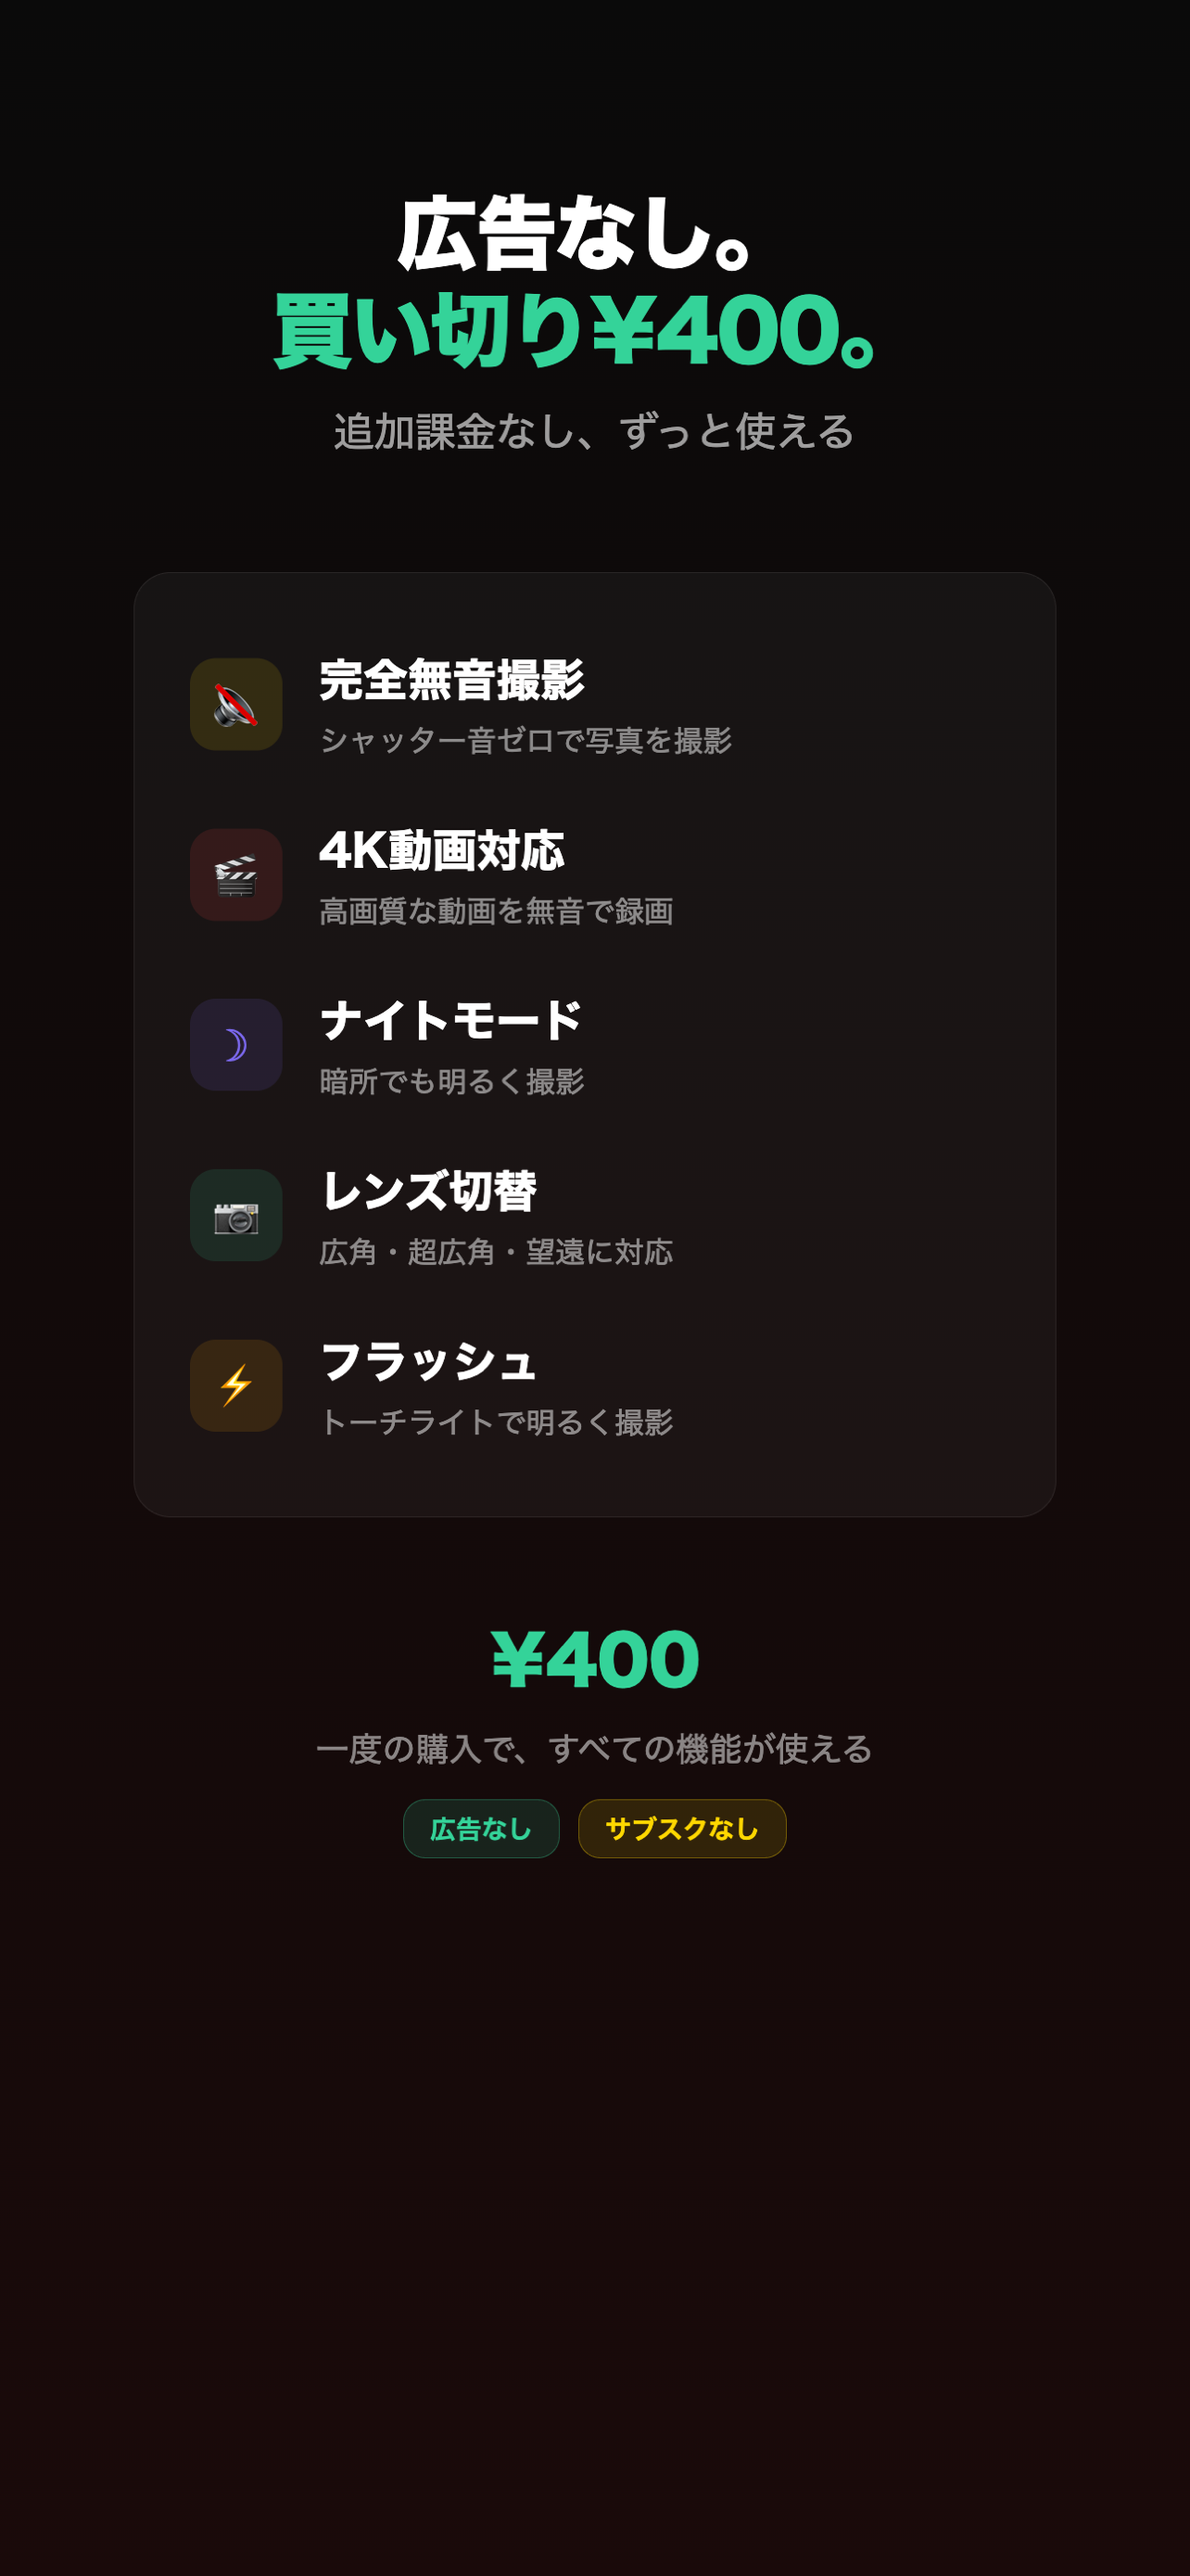
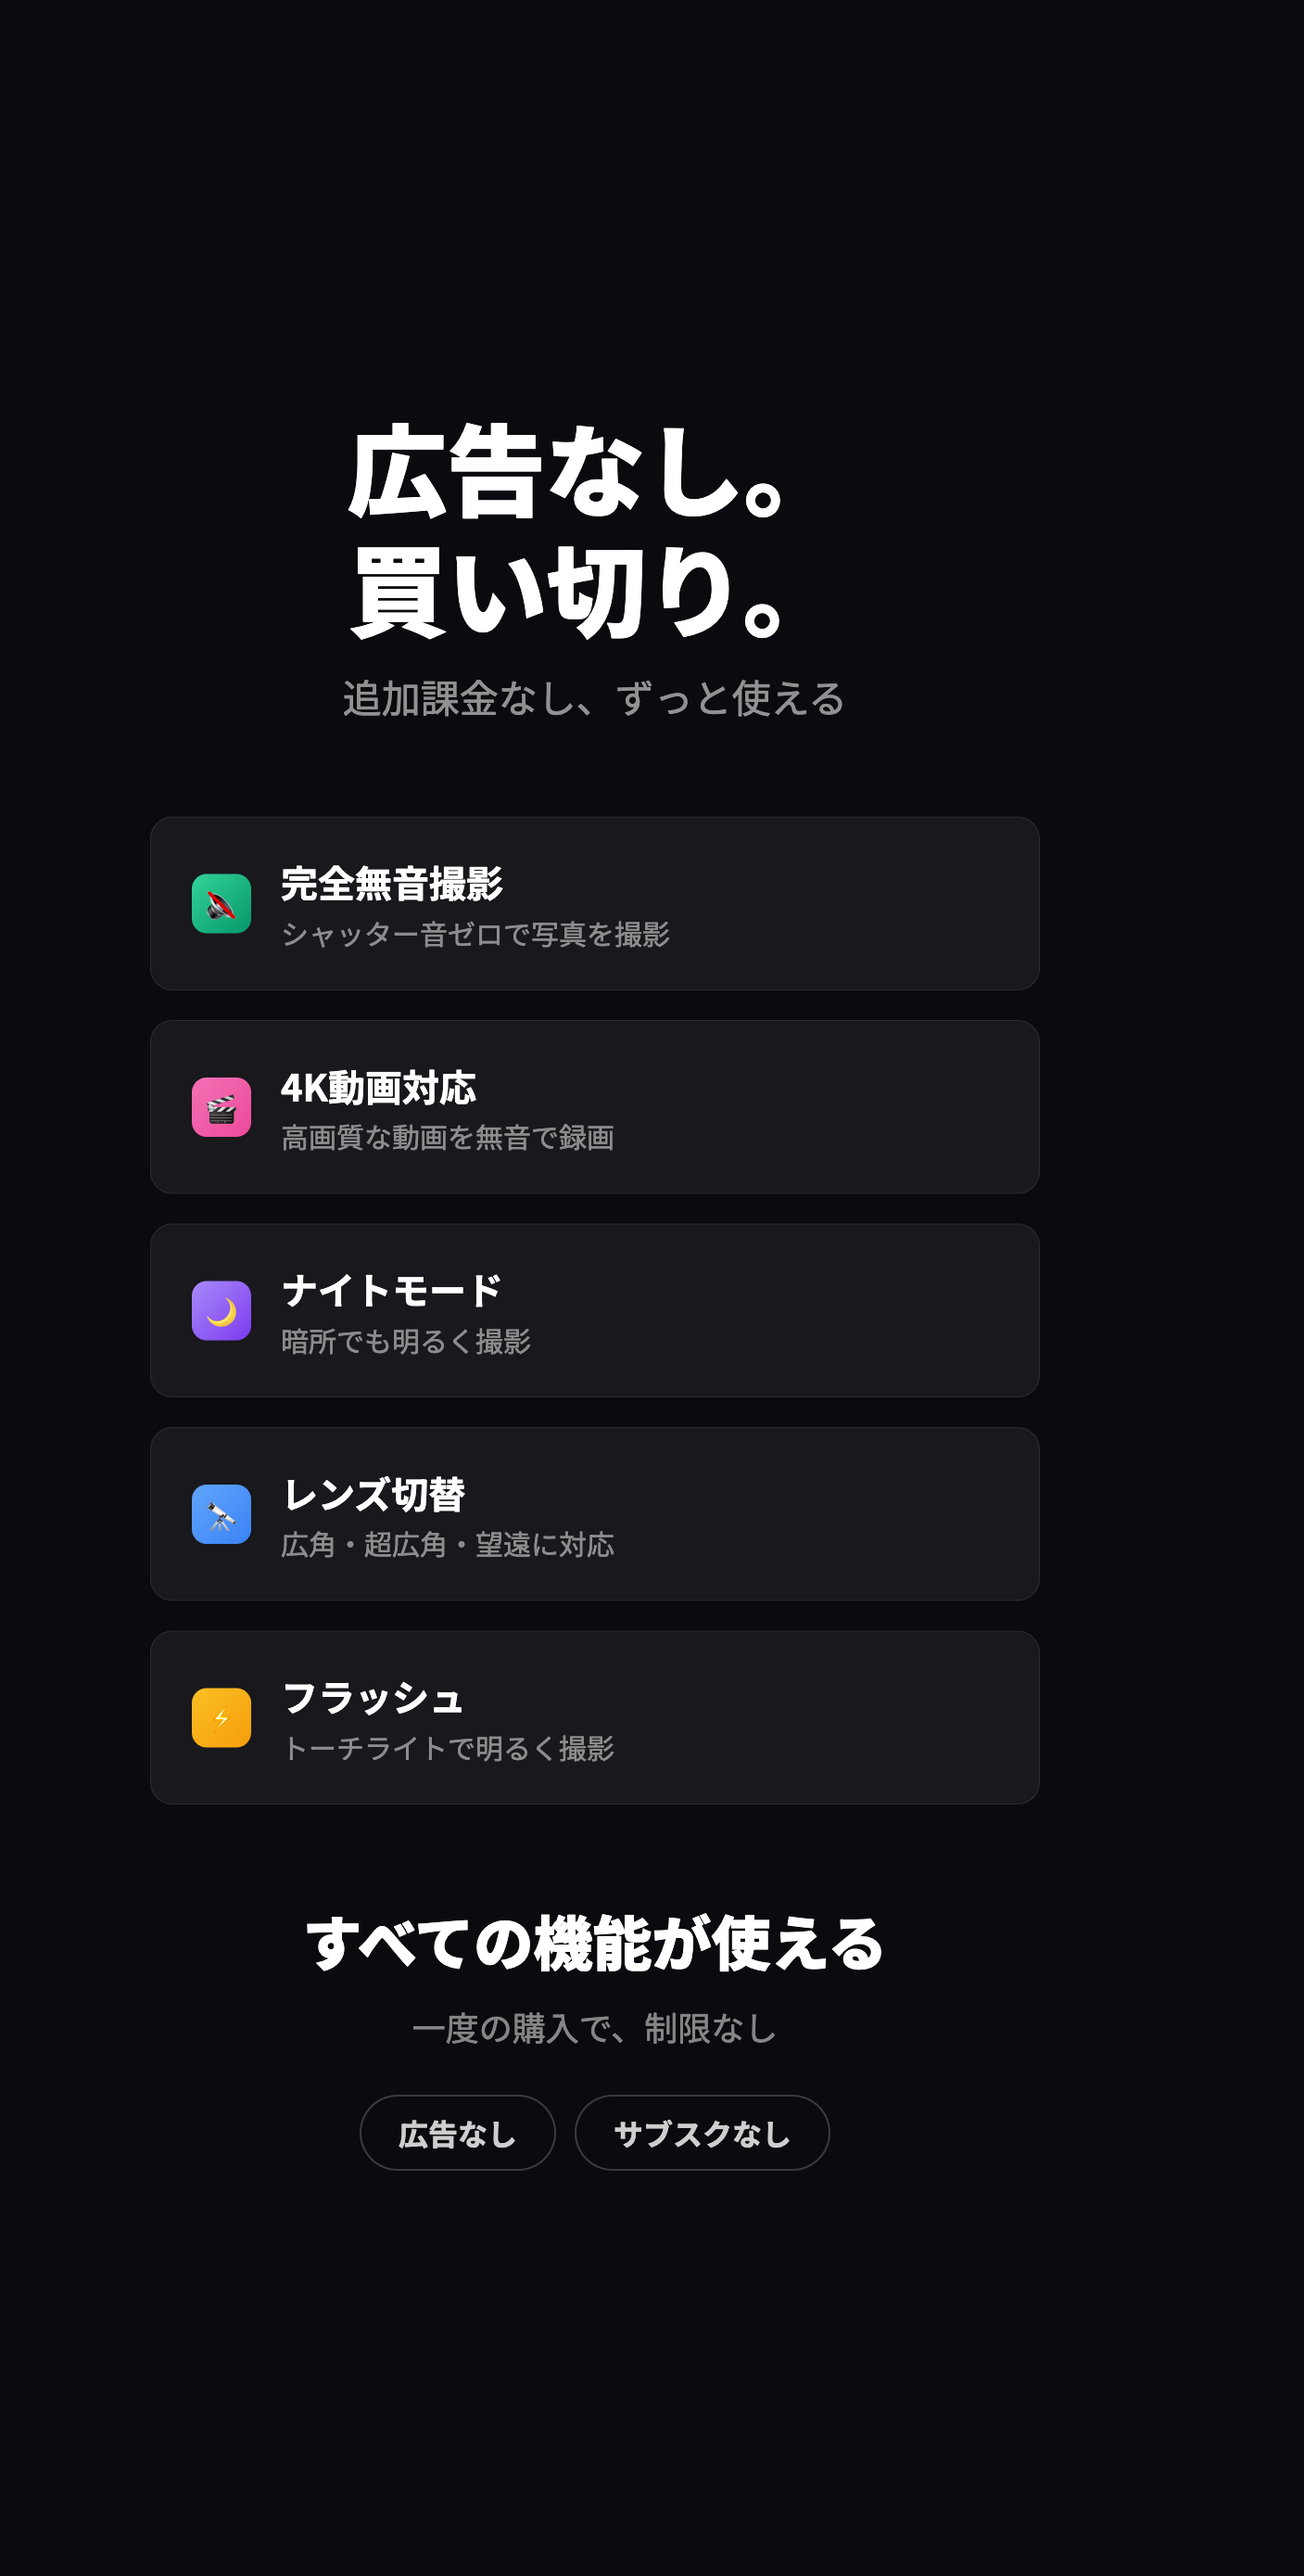
fix: App Store リジェクト対応 (2.5.14, 2.3.7, 1.5)
- 2.5.14: シャッターフラッシュを黒→白に変更（撮影インジケーター）
- 2.3.7: screenshot4 から価格表記を削除
- 1.5: サポートページにお問い合わせフォームへのリンクを追加

Changed region(s): [[0.1246, 0.0619, 0.7477, 0.6192], [0.1246, 0.5882, 0.6854, 0.8359]]

diff --git a/MannerCamera4K/Views/CameraView.swift b/MannerCamera4K/Views/CameraView.swift
@@ -6,8 +6,10 @@ struct CameraView: View {
     @State private var showMuteTip = false
     @State private var focusPoint: CGPoint?
     @State private var showFocusIndicator = false
+    @State private var focusID = UUID()
     // Important 8: ズームの指数的増加バグ修正用ベースズーム
     @State private var baseZoom: CGFloat = 1.0
+    @State private var showShutterFlash = false
     @Environment(\.scenePhase) private var scenePhase
 
     var body: some View {
@@ -31,20 +33,37 @@ struct CameraView: View {
         .onChange(of: scenePhase) { _, newPhase in
             switch newPhase {
             case .active:
-                camera.startSession()
-            case .inactive, .background:
+                // 権限の付与・取消の両方に対応（内部で startSession も行う）
+                camera.checkPermission()
+            case .background:
+                // バックグラウンド移行時のみ録画停止（.inactiveではコントロールセンター等で発火するため停止しない）
+                // stopRecording は内部で非同期に保存処理を行うため、stopSession は captureState が idle に戻ってから実行
                 if camera.captureState == .recording {
                     camera.stopRecording()
                 }
+                // 録画停止の非同期処理と競合しないよう sessionQueue 経由で順序を保証
                 camera.stopSession()
+            case .inactive:
+                break
             @unknown default:
                 break
             }
+        }
+        .onChange(of: camera.currentLens) {
+            baseZoom = 1.0
+        }
+        .onChange(of: camera.currentPosition) {
+            baseZoom = 1.0
         }
         .alert("ストレージ不足", isPresented: Bindable(camera).showStorageAlert) {
             Button("OK") {}
         } message: {
             Text("空き容量が不足しています。不要なファイルを削除してから再度お試しください。")
+        }
+        .alert("保存に失敗しました", isPresented: Bindable(camera).showSaveErrorAlert) {
+            Button("OK") {}
+        } message: {
+            Text("写真ライブラリへの保存に失敗しました。設定アプリから写真へのアクセスを許可してください。")
         }
     }
 
@@ -53,8 +72,11 @@ struct CameraView: View {
             GeometryReader { geo in
                 CameraPreviewView(session: camera.session)
                     .ignoresSafeArea()
+                    // 録画中・キャプチャ中はプレビューのタッチを完全に無効化
+                    // これにより録画停止ボタンへのタッチが確実に到達する
+                    .allowsHitTesting(camera.captureState == .idle)
                     .gesture(
-                        DragGesture(minimumDistance: 0)
+                        SpatialTapGesture()
                             .onEnded { value in
                                 camera.focus(at: value.location, in: geo.size)
                                 showFocusAt(value.location)
@@ -74,7 +96,9 @@ struct CameraView: View {
 
             if showFocusIndicator, let point = focusPoint {
                 FocusIndicator()
+                    .id(focusID)
                     .position(point)
+                    .allowsHitTesting(false)
             }
 
             if camera.captureState == .capturing && camera.isNightModeEnabled {
@@ -92,6 +116,15 @@ struct CameraView: View {
                     .background(.ultraThinMaterial, in: Capsule())
                     Spacer()
                 }
+                .allowsHitTesting(false)
+            }
+
+            if showShutterFlash {
+                Color.white
+                    .ignoresSafeArea()
+                    .allowsHitTesting(false)
+                    .transition(.opacity)
+                    .zIndex(10)
             }
 
             CameraControlsOverlay(
@@ -102,6 +135,7 @@ struct CameraView: View {
 
             if showMuteTip {
                 muteTipOverlay
+                    .allowsHitTesting(false)
             }
         }
     }
@@ -109,6 +143,14 @@ struct CameraView: View {
     private func handleCapture() {
         switch camera.currentMode {
         case .photo:
+            withAnimation(.easeOut(duration: 0.05)) {
+                showShutterFlash = true
+            }
+            DispatchQueue.main.asyncAfter(deadline: .now() + 0.15) {
+                withAnimation(.easeIn(duration: 0.12)) {
+                    showShutterFlash = false
+                }
+            }
             camera.capturePhoto(settings: settings)
 
         case .video:
@@ -129,9 +171,14 @@ struct CameraView: View {
 
     private func showFocusAt(_ point: CGPoint) {
         focusPoint = point
+        focusID = UUID()
         showFocusIndicator = true
+        let currentID = focusID
         DispatchQueue.main.asyncAfter(deadline: .now() + 1.5) {
-            withAnimation { showFocusIndicator = false }
+            // 新しいタップが発生していない場合のみ非表示にする
+            if focusID == currentID {
+                withAnimation { showFocusIndicator = false }
+            }
         }
     }
 

diff --git a/docs/support.html b/docs/support.html
@@ -113,13 +113,13 @@
   <h2>お問い合わせ</h2>
 
   <div class="contact-box">
-    <p>不具合の報告やご要望は、GitHub Issuesまたはメールにてお寄せください。</p>
-    <p><a href="https://github.com/kureho/MannerCamera4K/issues">GitHub Issues</a></p>
+    <p>不具合の報告やご要望は、お問い合わせフォームからお送りください。</p>
+    <p><a href="https://support-desk.vercel.app/contact?product=mannercamera4k">お問い合わせフォーム</a></p>
   </div>
 
   <p><a href="privacy-policy.html" style="color:#60a5fa;font-size:14px">プライバシーポリシー</a></p>
 
-  <p class="updated">最終更新日: 2026年3月14日</p>
+  <p class="updated">最終更新日: 2026年3月18日</p>
 </div>
 </body>
 </html>
